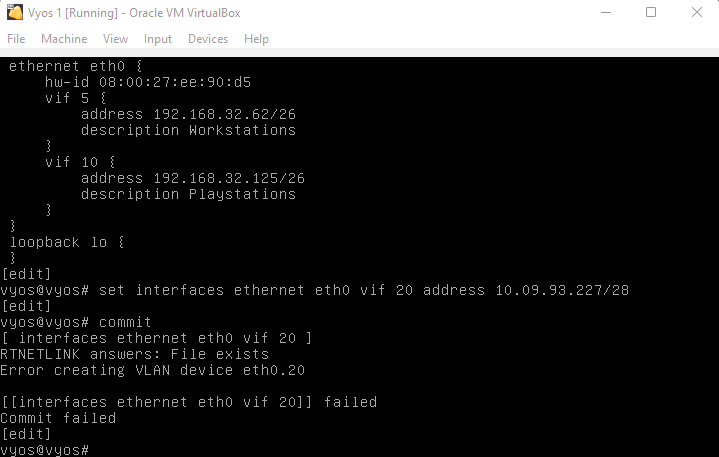
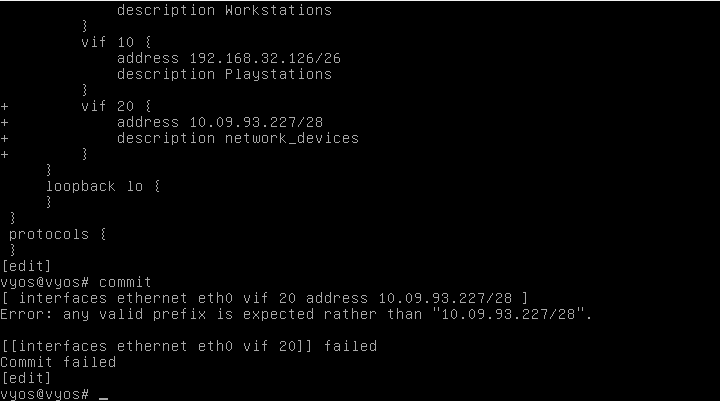
E04 test

diff --git a/documentation/E04.md b/documentation/E04.md
@@ -26,6 +26,8 @@ I modified the physical topology from E02 and updated it along the exercise.
 ![](/documentation/E04/vifs.png)
 ![](/documentation/E04/vifs1.png)
 
+I later changed vif 10 ip address to **192.168.32.126/26**
+
 
 ## Pinging
 Pinging router/vyos from Lubuntu 9001
@@ -57,3 +59,6 @@ Trying to add vif 20 in vyos, I can't commit the change. Don't know what went wr
 
 
 ![](/documentation/E04/vyosfail.png)
+
+
+changed vif 10 address 10 192.168.32.126/26 from .125/26
